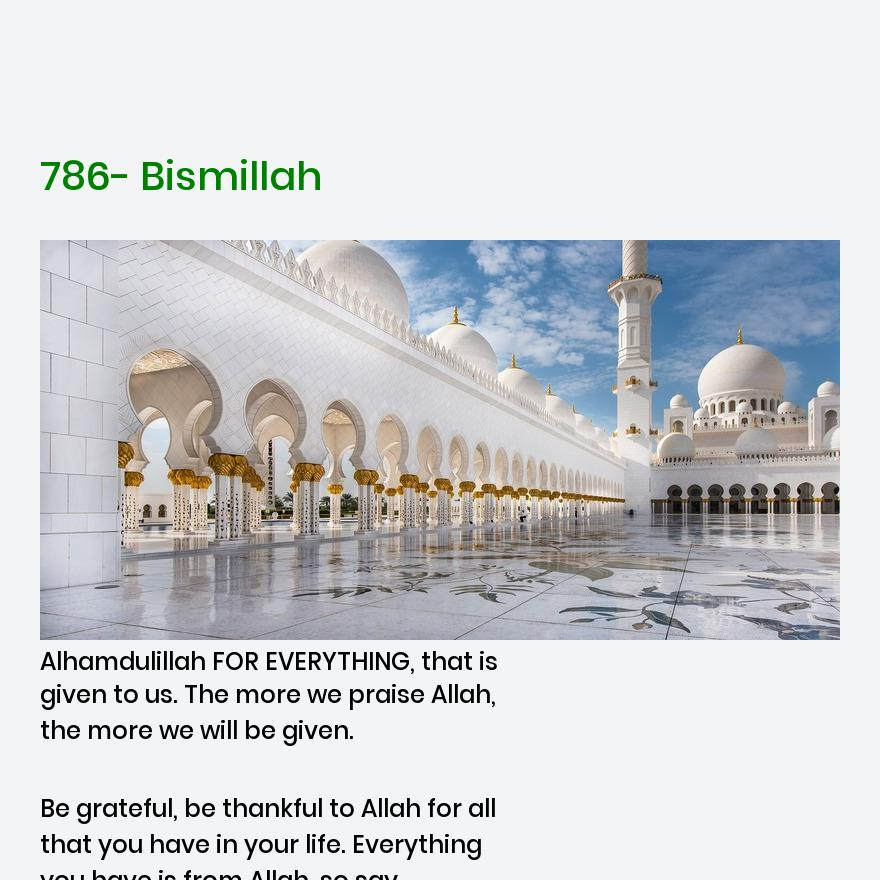
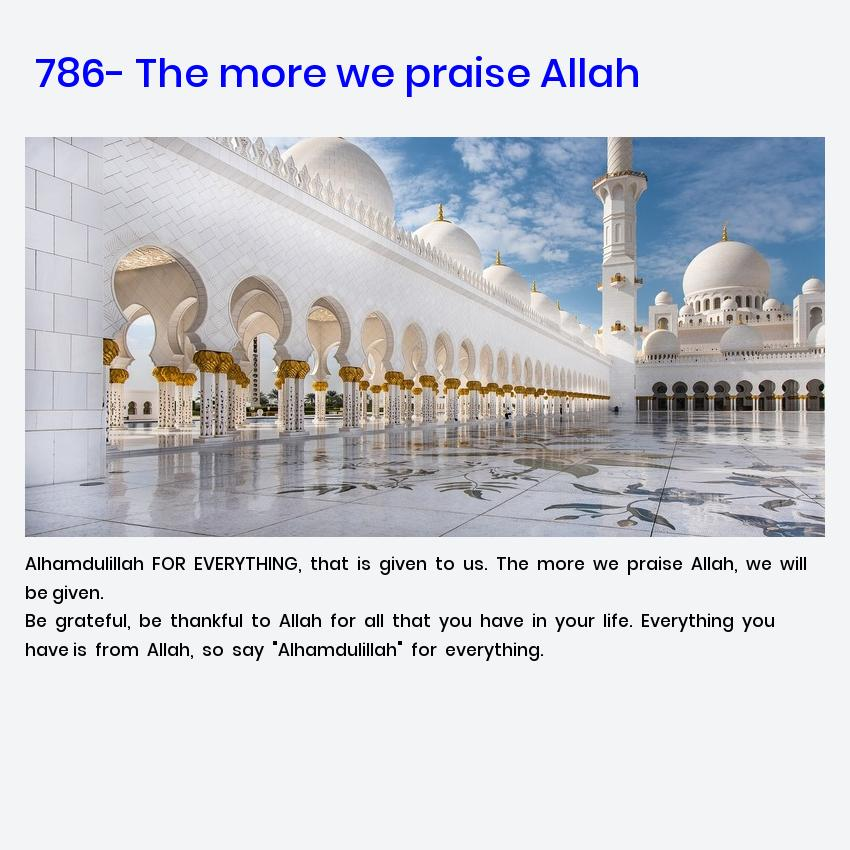
fixed the title & description text position problem

diff --git a/create_poster.php b/create_poster.php
@@ -67,7 +67,7 @@ if ($_SERVER["REQUEST_METHOD"] == "POST") {
 
                 // Calculate the position to center the uploaded image on the default image
                 $uploadedImageX = ($imageWidth - 800) / 2; // Center horizontally with a fixed width of 800
-                $uploadedImageY = ($imageHeight - 400) / 2; // Center vertically with a fixed height of 400
+                $uploadedImageY = ($imageHeight - 575) / 2; // Center vertically with a fixed height of 400
 
                 // Create a new image with fixed dimensions (800x400)
                 $resized_uploaded_image = imagecreatetruecolor(800, 400);
@@ -89,27 +89,51 @@ if ($_SERVER["REQUEST_METHOD"] == "POST") {
 
         // Check if file already exists
         if (file_exists($target_file)) {
+            unlink($target_file);
             echo "Existing uploaded image has been removed.";
         }
 
     }
 
+    // Function to wrap text and calculate its dimensions
+    function wrapText($image, $font, $text, $maxWidth)
+    {
+        $words = explode(' ', $text);
+        $lines = [];
+        $currentLine = '';
+
+        foreach ($words as $word) {
+            $testLine = $currentLine . $word . ' ';
+            $testBox = imagettfbbox(25, 0, $font, $testLine);
+
+            if ($testBox[2] > $maxWidth && !empty($currentLine)) {
+                $lines[] = trim($currentLine);
+                $currentLine = $word . ' ';
+            } else {
+                $currentLine = $testLine;
+            }
+        }
+
+        $lines[] = trim($currentLine);
+        return $lines;
+    }
+
+
+    // Set the maximum width for title and description texts
+    $maxTitleWidth = $uploadedImageWidth + 100; // Leave some margin from the right side
+    // print_r($uploadedImageWidth);
+    // Wrap the title and description texts if they exceed the maximum width
+    $wrappedTitle = wrapText($default_image, $fontPath, $heading, $maxTitleWidth);
 
     // Calculate x-coordinate for the title
-    $titleX = 5; // Left align by default
+    $titleX = 35; // Left align by default
     if ($heading_position === 'center') {
         $titleX = ($imageWidth - imagettfbbox(30, 0, $fontPath, $wrappedTitle[0])[2]) / 2;
     } elseif ($heading_position === 'right') {
-        $titleX = $imageWidth - imagettfbbox(30, 0, $fontPath, $wrappedTitle[0])[2] - 5;
+        $titleX = $imageWidth - imagettfbbox(30, 0, $fontPath, $wrappedTitle[0])[2] - 45;
     }
 
-    // Calculate x-coordinate for the description
-    $descriptionX = 5; // Left align by default
-    if ($description_position === 'center') {
-        $descriptionX = ($imageWidth - imagettfbbox(20, 0, $fontPath, $wrappedDescription[0])[2]) / 2;
-    } elseif ($description_position === 'right') {
-        $descriptionX = $imageWidth - imagettfbbox(20, 0, $fontPath, $wrappedDescription[0])[2] - 5;
-    }
+    $titleY = $uploadedImageY - 50;
 
     // Set the title color
     $textColor = imagecolorallocate($default_image, 0, 0, 0); // Default to black color
@@ -117,6 +141,23 @@ if ($_SERVER["REQUEST_METHOD"] == "POST") {
         $textColor = imagecolorallocate($default_image, 0, 0, 255); // Blue color
     } elseif ($heading_color === 'green') {
         $textColor = imagecolorallocate($default_image, 0, 128, 0); // Green color
+    }
+
+
+    $fontsize = 30;
+    $angle = 0;
+    $titleHeight = 0; // Initialize the title height
+    foreach ($wrappedTitle as $line) {
+        imagettftext($default_image, $fontsize, $angle, $titleX, $titleY, $textColor, $fontPath, $line);
+        $titleY += 40; // Increase the Y-coordinate for the next line
+    }
+
+    // Calculate x-coordinate for the description
+    $descriptionX = $uploadedImageX; // Left align by default
+    if ($description_position === 'center') {
+        $descriptionX = ($imageWidth - imagettfbbox(20, 0, $fontPath, $wrappedDescription[0])[2]) / 2;
+    } elseif ($description_position === 'right') {
+        $descriptionX = $imageWidth - imagettfbbox(20, 0, $fontPath, $wrappedDescription[0])[2] - 5;
     }
 
     // Set the description color
@@ -127,103 +168,66 @@ if ($_SERVER["REQUEST_METHOD"] == "POST") {
         $descriptionColor = imagecolorallocate($default_image, 0, 128, 0); // Green color
     }
 
-
-
-// Function to wrap text and calculate its dimensions
-function wrapText($image, $font, $text, $maxWidth)
-{
-    $words = explode(' ', $text);
-    $lines = [];
-    $currentLine = '';
-
-    foreach ($words as $word) {
-        $testLine = $currentLine . $word . ' ';
-        $testBox = imagettfbbox(30, 0, $font, $testLine);
-
-        if ($testBox[2] > $maxWidth && !empty($currentLine)) {
-            $lines[] = trim($currentLine);
-            $currentLine = $word . ' ';
-        } else {
-            $currentLine = $testLine;
-        }
-    }
-
-    $lines[] = trim($currentLine);
-    return $lines;
-}
-
-    // Set the maximum width for title and description texts
-    $maxTitleWidth = $uploadedImageWidth - 10; // Leave some margin from the right side
-    $maxDescriptionWidth = $uploadedImageWidth - 20; // Leave some margin from both sides
-
-    // Wrap the title and description texts if they exceed the maximum width
-    $wrappedTitle = wrapText($default_image, $fontPath, $heading, $maxTitleWidth);
-    $wrappedDescription = wrapText($default_image, $fontPath, $description, $maxDescriptionWidth);
-
-    // Determine y-coordinates for title and description
-    $titleY = $uploadedImageY - 50;
-    // $titleX  = $uploadedImageX + 10; 
-
-    // Calculate the available space for the title
-    $availableTitleWidth = $uploadedImageWidth - 800; // 800 is the width of the uploaded image
-
-    // Calculate the starting X-coordinate for the title
-    $titleX = $availableTitleWidth / 2;
-    // $titlePositionY = $uploadedImageY - 30;
-    // Add wrapped title to the default image
-    $fontsize = 30;
-    $angle = 0;
-    $titleHeight = 0; // Initialize the title height
-    foreach ($wrappedTitle as $line) {
-        $titleBox = imagettfbbox($fontsize, $angle, $fontPath, $line);
-        $titleWidth = $titleBox[2] - $titleBox[0];
-
-       
-        // Adjust the title X-coordinate to keep it within the available width
-        if ($titleX + $titleWidth > 800) {
-            $titleX = $availableTitleWidth / 2; // Reset X-coordinate to center
-            $titleY += 40; // Move to the next line
-            $titleHeight += abs($titleBox[7] - $titleBox[1]); // Calculate the height of the current line
-        }
-
-        imagettftext($default_image, $fontsize, $angle, $uploadedImageX, $titleY, $textColor, $fontPath, $line);
-        $titleX += $titleWidth; // Move the X-coordinate for the next line
-    }
-
-  // Calculate the available space for the description
-
-// Starting Y-coordinate for the wrapped description
-$descriptionY = $uploadedImageY + 400 + 30; // 400 is the height of the uploaded image, add some margin (30) for the next line
-
-// Add wrapped description to the default image
-$fontsize = 18;
-$angle = 0;
-
-foreach ($wrappedDescription as $line) {
-    // Calculate the bounding box of the current line of text
-    $descriptionBox = imagettfbbox($fontsize, $angle, $fontPath, $line);
-    print_r($descriptionBox);
-    $descriptionWidth = $descriptionBox[2] - $descriptionBox[0];
-
-    // Check if the current line exceeds the available width
-    if ($descriptionWidth > 800) {
     
-        $descriptionBox = imagettfbbox($fontsize, $angle, $fontPath, $line);
-        $descriptionWidth = $descriptionBox[2] - $descriptionBox[0];
+    function wrapDescriptionText($image, $font, $text, $maxWidth)
+    {
+        $words = explode(' ', $text);
+        $lines = [];
+        $currentLine = '';
+
+        foreach ($words as $word) {
+            $testLine = $currentLine . $word . '  ';
+            $testBox = imagettfbbox(14, 0, $font, $testLine);
+            // print_r($testLine);
+            print_r($testBox[2]);
+            if ($testBox[2] > $maxWidth && !empty($currentLine)) {
+                $lines[] = trim($currentLine);
+                $currentLine = $word . ' ';
+           
+
+            } else {
+                $currentLine = $testLine;
+            }
+        }
+
+        $lines[] = trim($currentLine);
+        return $lines;
     }
 
-    // Calculate the starting X-coordinate to be the same as the uploaded image
-    $descriptionX = $uploadedImageX;
+    $maxDescriptionWidth = $uploadedImageWidth + 45; // Leave some margin from both sides
+    $wrappedDescription = wrapDescriptionText($default_image, $fontPath, $description, $maxDescriptionWidth);
 
-    // Draw the text
-    imagettftext($default_image, $fontsize, $angle, $descriptionX, $descriptionY, $descriptionColor, $fontPath, $line);
 
-    // Increase the Y-coordinate for the next line
-    $descriptionY += abs($descriptionBox[7] - $descriptionBox[1]) + 10; // Add some margin (10) between lines
+    // Add wrapped description to the default image
+    $fontsize = 13;
+    $angle = 0;
+    $descriptionY = $imageHeight - 280;
+    // $descriptionY -= (count($wrappedDescription) - 1) * 0; // Adjust Y-coordinate for wrapped lines
 
-    // $descriptionY += abs($descriptionBox[7] - $descriptionBox[1]) + 10; // Add some margin (10) between lines
-}
+    foreach ($wrappedDescription as $line) {
+        imagettftext($default_image, $fontsize, $angle, $descriptionX, $descriptionY, $descriptionColor, $fontPath, $line);
+        $descriptionY += 5; // Increase the Y-coordinate for the next line
+        // // Calculate the bounding box of the current line of text
+        $descriptionBox = imagettfbbox($fontsize, $angle, $fontPath, $line);
+        // print_r($descriptionBox);
+        // $descriptionWidth = $descriptionBox[2] - $descriptionBox[0];
 
+        // // Check if the current line exceeds the available width
+        // if ($descriptionWidth > 800) {
+
+        //     $descriptionBox = imagettfbbox($fontsize, $angle, $fontPath, $line);
+        //     $descriptionWidth = $descriptionBox[2] - $descriptionBox[0];
+        // }
+
+        // // Draw the text
+        // imagettftext($default_image, $fontsize, $angle, $descriptionX, $descriptionY, $descriptionColor, $fontPath, $line);
+
+        // Increase the Y-coordinate for the next line
+        $descriptionY += abs($descriptionBox[7] - $descriptionBox[1]) + 5; // Add some margin (10) between lines
+
+    }
+
+   
 
 
 
